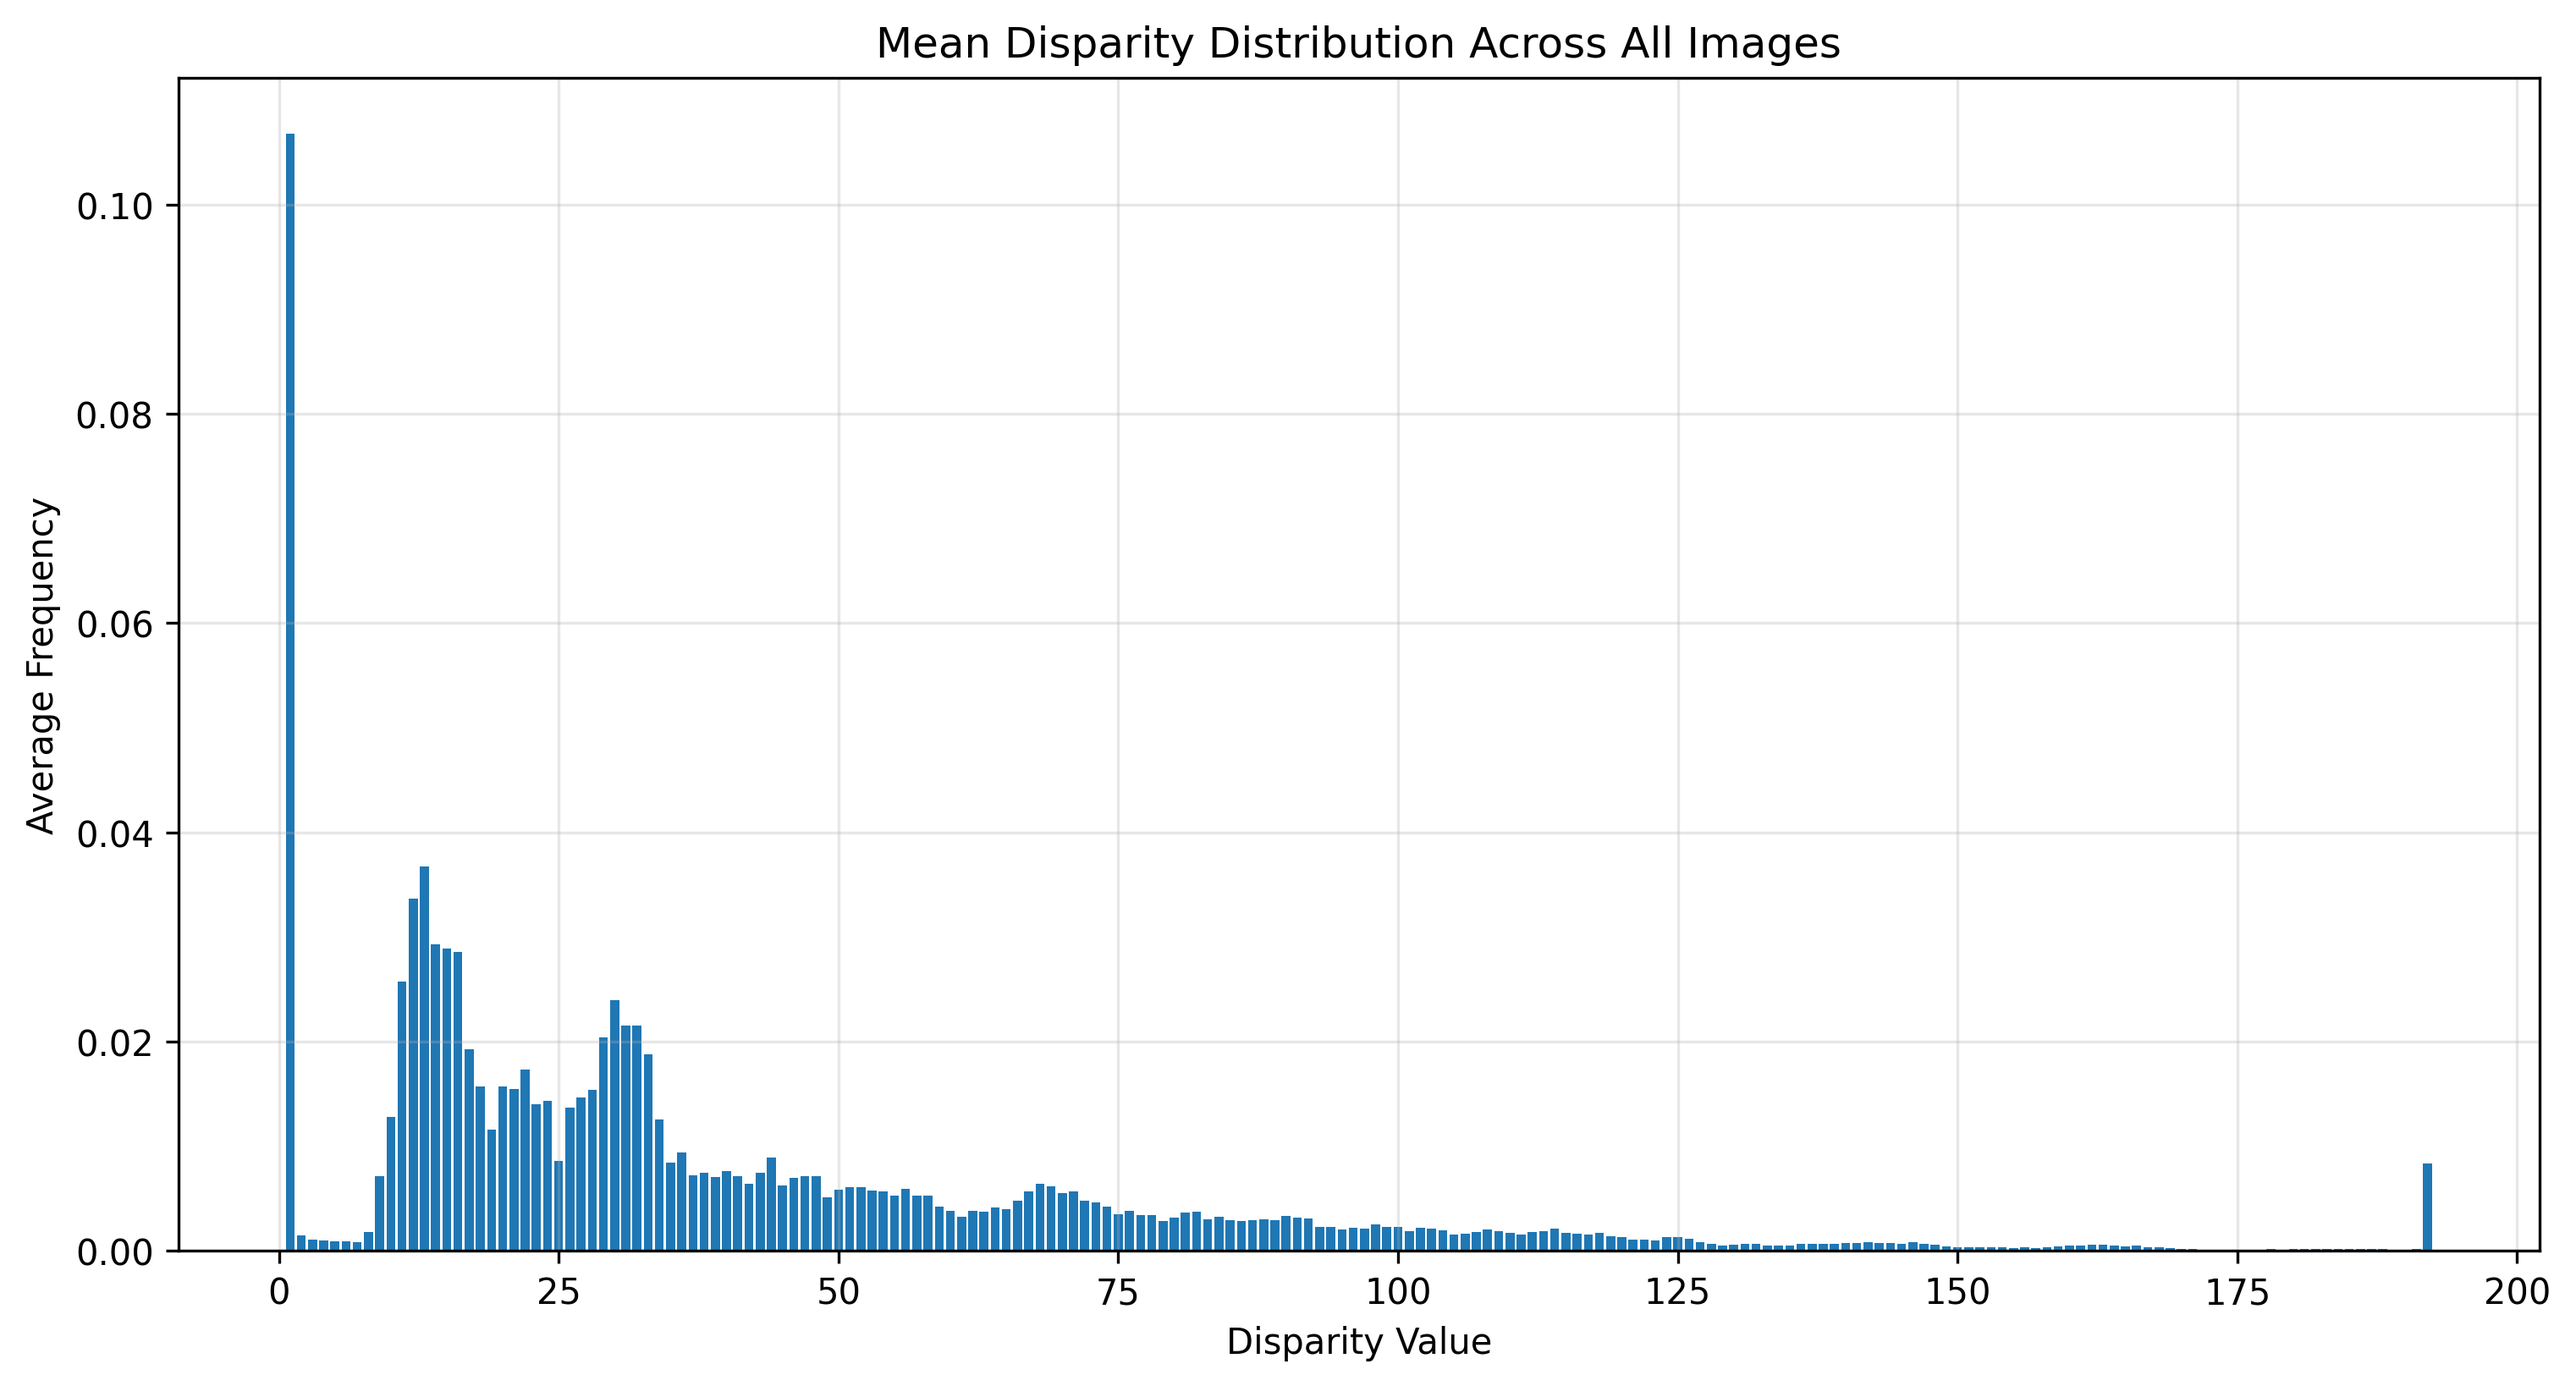
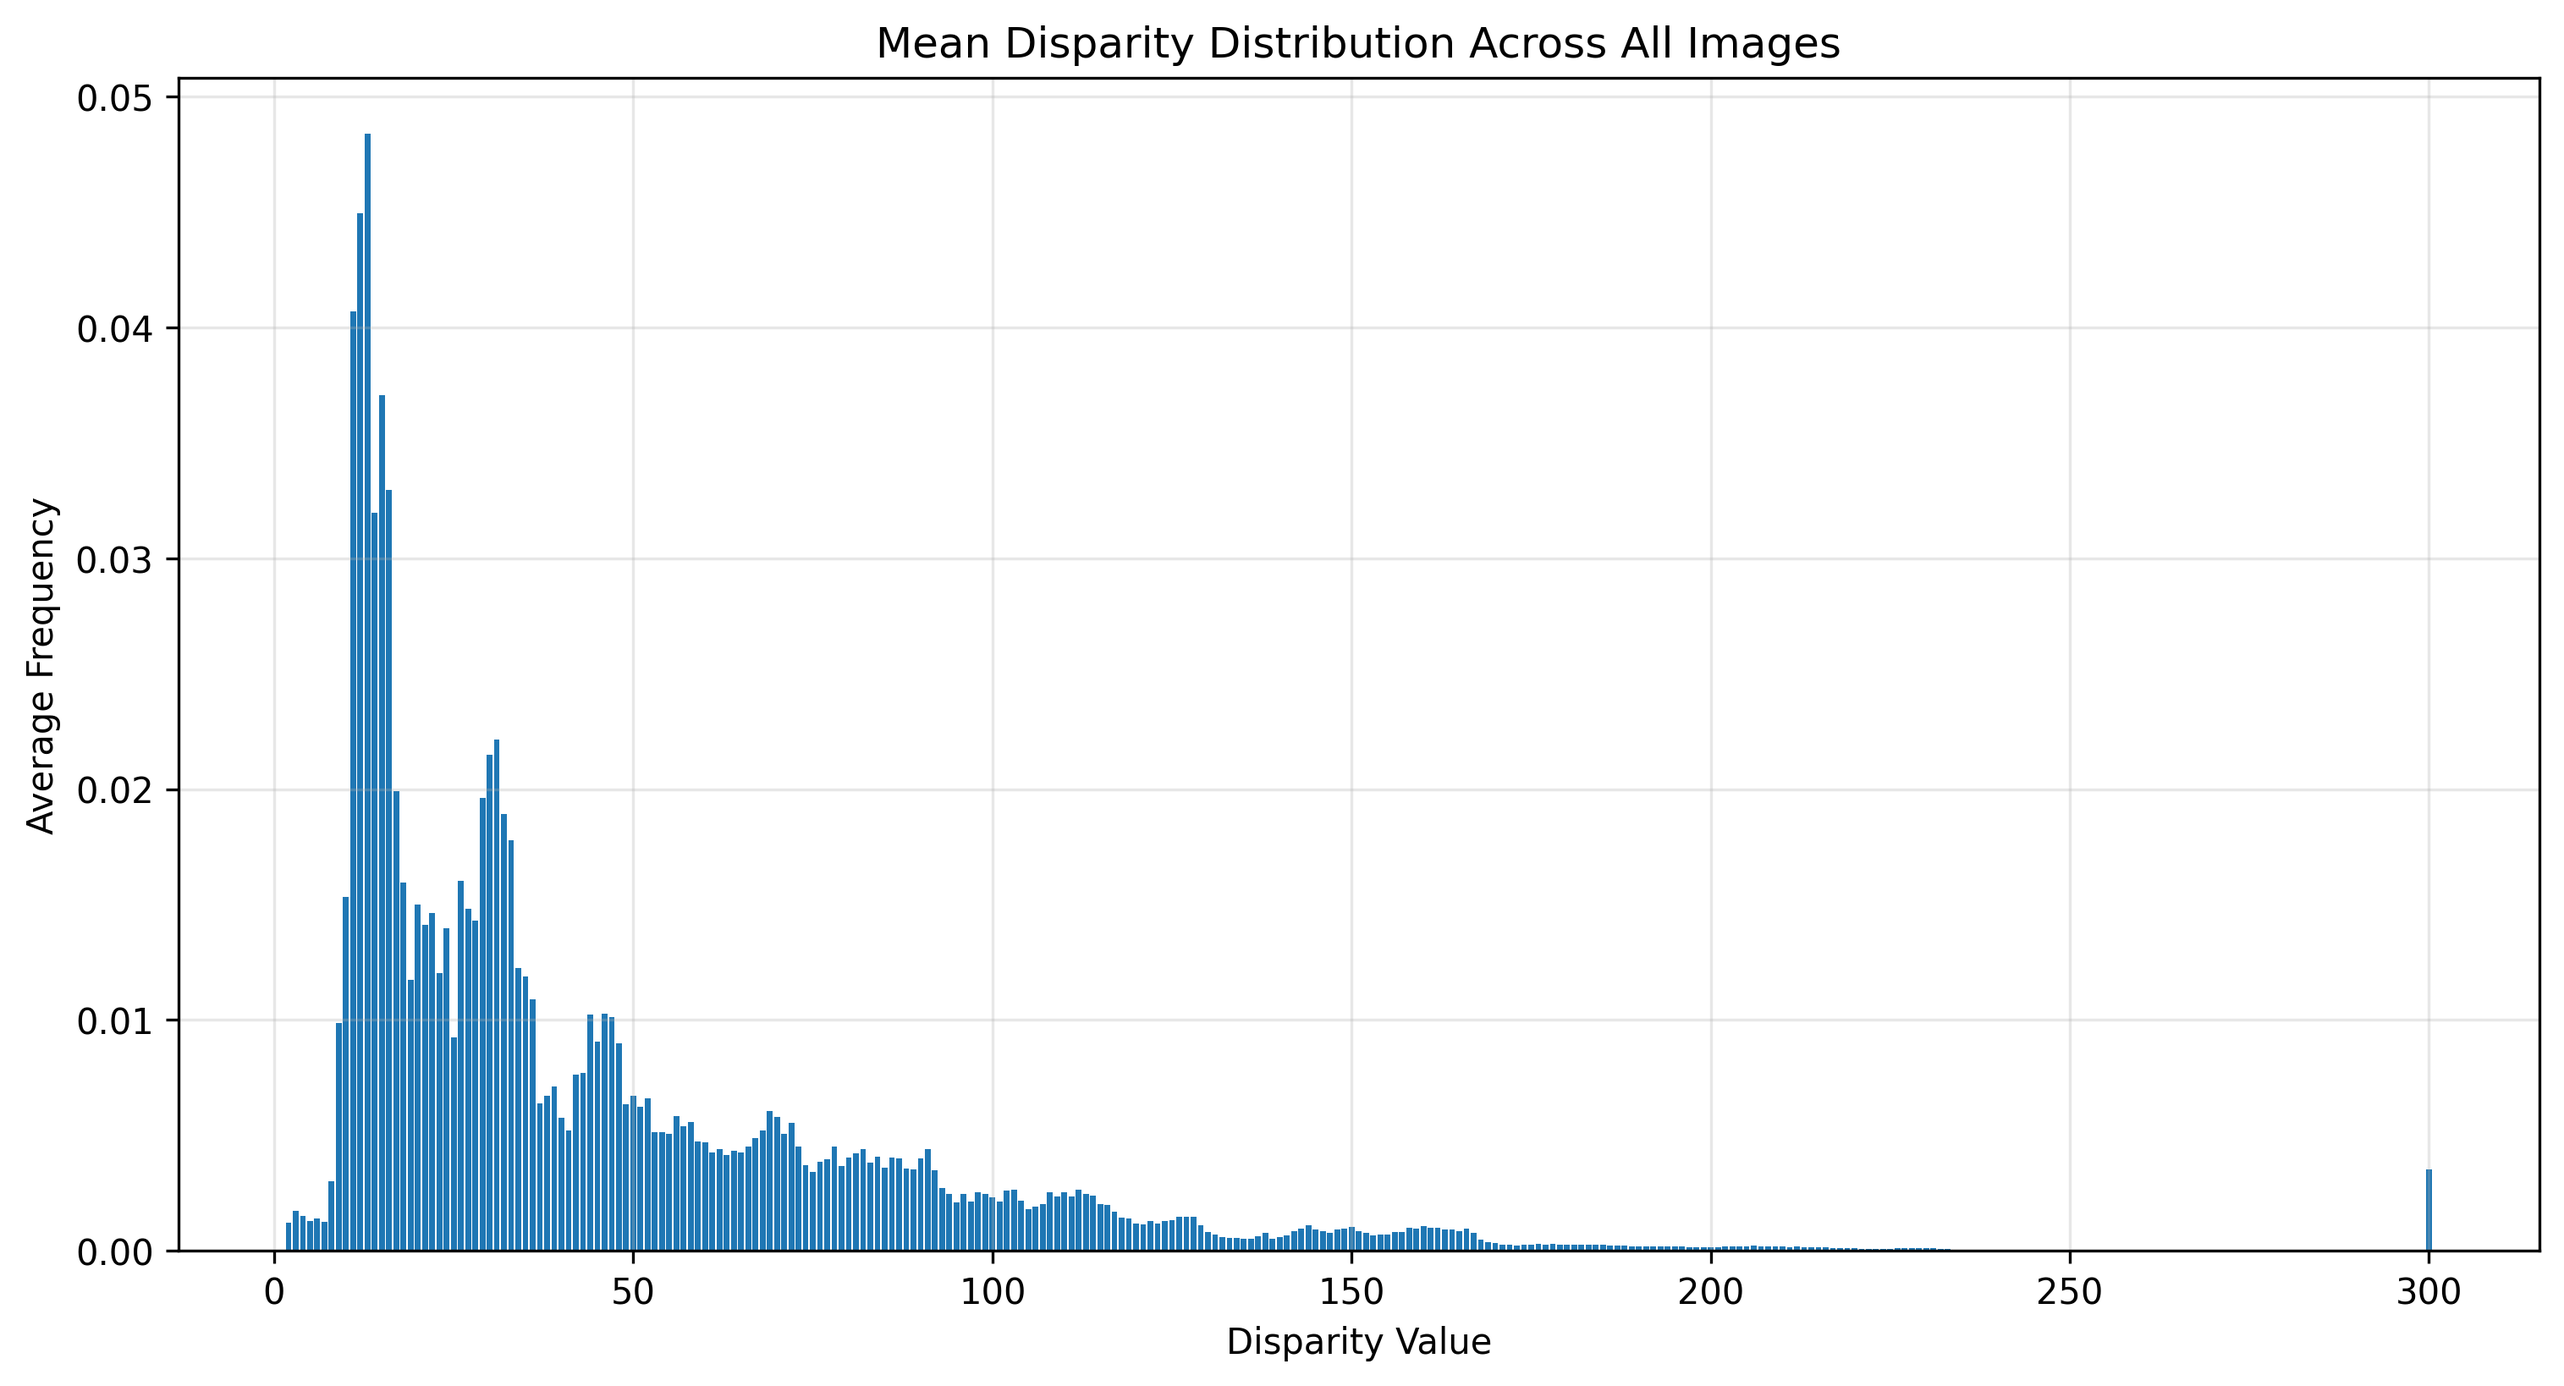
no pretrain

diff --git a/tools/write_log.py b/tools/write_log.py
@@ -260,51 +260,18 @@ class Logger:
     """ 
 
     def save_error_map(self,
-                        data_batch,
-                        abs_thresh: float = 1.1,
-                        rel_thresh: float = 0.05,
-                        dilation: int = 1):
+                   data_batch,
+                   abs_thresh: float = 1.1,
+                   rel_thresh: float = 0.05,
+                   dilation: int = 1,
+                   bins: int = 50):
         disparity_path = None
-        gt   = data_batch['tgt_disparity'].squeeze().detach().cpu()   # Tensor H×W
-        pred = data_batch['pseudo_disp'][0].squeeze().detach().cpu()   # Tensor H×W
+        gt   = data_batch['tgt_disparity'].squeeze().detach().cpu()
+        pred = data_batch['pseudo_disp'][0].squeeze().detach().cpu()
         
-        # # 디스패리티 마스크 로드 및 적용
-        # if disparity_path is not None:
-        #     # 파일명에서 _disparity.png 파일 경로 생성
-        #     filename = os.path.basename(data_batch['tgt_left_filename'].split('/')[-1])
-        #     base_name = os.path.splitext(filename)[0]  # 확장자 제거
-        #     disparity_filename = f"{base_name}_disparity.png"
-        #     full_disparity_path = os.path.join(disparity_path, disparity_filename)
-            
-        #     # 디스패리티 이미지 로드
-        #     if os.path.exists(full_disparity_path):
-        #         disparity_img = Image.open(full_disparity_path).convert('L')  # 그레이스케일로 로드
-        #         disparity_arr = np.array(disparity_img)
-                
-        #         # pred와 같은 크기로 리사이즈 (필요한 경우)
-        #         if disparity_arr.shape != pred.shape:
-        #             disparity_img_resized = Image.fromarray(disparity_arr).resize(
-        #                 (pred.shape[1], pred.shape[0]), Image.NEAREST
-        #             )
-        #             disparity_arr = np.array(disparity_img_resized)
-                
-        #         # 0보다 큰 부분만 마스크로 생성
-        #         mask = disparity_arr > 0
-        #         mask_tensor = torch.from_numpy(mask).to(pred.device)
-        #         pred = pred * mask_tensor  # 마스크를 pred에 적용
-        #         print(f"Applied disparity mask from: {full_disparity_path}")
-        #     else:
-        #         print(f"Warning: Disparity file not found: {full_disparity_path}")
-        #         # 기본 마스크 사용
-        #         mask = data_batch['tgt_refined_pred_disp_t'].squeeze().detach().cpu() > 0
-        #         pred = pred * mask
-        # else:
-        #     # 기본 마스크 사용
         mask = data_batch['tgt_refined_pred_disp_t'].squeeze().detach().cpu() > 0
-        # pred = pred * mask
         
         valid = (gt > 0) & (pred > 0)
-
         abs_err = (gt - pred).abs()
         rel_err = abs_err / gt.clamp(min=1e-6)
 
@@ -313,25 +280,98 @@ class Logger:
 
         bad_np = bad.numpy().astype(np.uint8)
         good_np = good.numpy().astype(np.uint8)
+        
         if dilation > 1:
             kernel = np.ones((dilation, dilation), np.uint8)
             bad_np = cv2.dilate(bad_np, kernel)
 
+        # 에러맵 이미지 생성
         H, W = bad_np.shape
         img = np.zeros((H, W, 3), dtype=np.uint8)
         img[:, :, :] = (255, 0, 0)
         img[~valid.numpy()] = (0, 0, 0)
         img[bad_np > 0] = (255, 0, 0)
         img[good_np > 0] = (0, 255, 0)
-        filename  = os.path.basename(data_batch['tgt_left_filename'].split('/')[-1])
+        
+        # 히스토그램 데이터 계산 (카운트 기반)
+        bin_centers, counts_total, counts_bad = self.compute_gt_and_bad_counts(
+            gt.numpy(), bad.numpy(), bins
+        )
+        
+        # 에러맵과 히스토그램을 함께 플롯
+        filename = os.path.basename(data_batch['tgt_left_filename'].split('/')[-1])
         save_path = os.path.join(self.error_dir, filename)
+        
+        self.plot_error_map_with_count_histogram(img, bin_centers, counts_total, counts_bad, save_path)
 
-        plt.figure(figsize=(12, 6), dpi=100)
+    def compute_gt_and_bad_counts(self, gt_np, bad_np, bins=10):
+        """GT disparity 값별 총 카운트와 에러 카운트를 계산"""
+        # 유효한 GT 값만 필터링 (gt > 0)
+        valid_mask = gt_np > 0
+        gt_valid = gt_np[valid_mask]
+        bad_valid = bad_np[valid_mask]
+
+        if len(gt_valid) == 0:
+            return np.array([]), np.array([]), np.array([])
+
+        # bins 경계 생성
+        bin_edges = np.linspace(0.0, 80.0, bins + 1)
+
+        # 각 bin별 총 픽셀 수
+        counts_total, _ = np.histogram(gt_valid, bins=bin_edges)
+
+        # 각 bin별 에러 픽셀 수
+        counts_bad, _ = np.histogram(gt_valid[bad_valid.astype(bool)], bins=bin_edges)
+
+        # bin 중앙값
+        bin_centers = (bin_edges[:-1] + bin_edges[1:]) / 2
+
+        return bin_centers, counts_total, counts_bad
+
+    def plot_error_map_with_count_histogram(self, img, bin_centers, counts_total, counts_bad, save_path):
+        """에러맵과 카운트 히스토그램을 함께 플롯"""
+        plt.figure(figsize=(16, 6), dpi=100)
+        
+        # 에러맵 서브플롯
+        plt.subplot(1, 2, 1)
         plt.imshow(img)
         plt.axis('off')
-        plt.tight_layout(pad=0)
-        plt.savefig(save_path, bbox_inches='tight', pad_inches=0)
+        plt.title('Error Map', fontsize=14)
+        
+        # 히스토그램 서브플롯 (그룹 막대 그래프)
+        plt.subplot(1, 2, 2)
+        if len(bin_centers) > 0:
+            # 막대 너비와 위치 설정
+            bar_width = (bin_centers[1] - bin_centers[0]) * 0.35 if len(bin_centers) > 1 else 0.35
+            x_pos = np.arange(len(bin_centers))
+            
+            # 그룹 막대 그래프 생성
+            plt.bar(x_pos - bar_width/2, counts_total, bar_width, 
+                label='Total GT Count', color='blue', alpha=0.7)
+            plt.bar(x_pos + bar_width/2, counts_bad, bar_width, 
+                label='Bad Count', color='red', alpha=0.7)
+            
+            # X축 라벨 설정
+            plt.xticks(x_pos, [f'{center:.1f}' for center in bin_centers], rotation=45)
+            plt.xlabel('GT Disparity Value', fontsize=12)
+            plt.ylabel('Count', fontsize=12)
+            plt.title('GT Count and Bad Count by Disparity Bin', fontsize=14)
+            plt.legend()
+            plt.grid(True, alpha=0.3)
+            
+            # 막대 위에 수치 표시
+            for i, (total, bad) in enumerate(zip(counts_total, counts_bad)):
+                if total > 0:
+                    plt.text(i - bar_width/2, total + max(counts_total) * 0.01, 
+                            str(total), ha='center', va='bottom', fontsize=9)
+                if bad > 0:
+                    plt.text(i + bar_width/2, bad + max(counts_total) * 0.01, 
+                            str(bad), ha='center', va='bottom', fontsize=9)
+        
+        plt.tight_layout()
+        plt.savefig(save_path, bbox_inches='tight', pad_inches=0.1)
         plt.close()
+
 
     def compute_metrics(self, data_batch):
         if 'src_disparity' in data_batch.keys():

diff --git a/read_prior.py b/read_prior.py
@@ -103,21 +103,21 @@ def print_distribution_results(mean_distribution, stats, top_k=20):
 
 def main():
     # Initialize dataset (you'll need to provide the actual paths)
-    dataset = KITTI2015Dataset(
-        datapath="/home/jaejun/dataset/kitti_2015",
-        list_filename="/home/jaejun/DomainGeneralization/filenames/target/kitti_2015_train.txt",
-        training=True,  # Set to True to get disparity ground truth
-        max_len=None,   # Process all samples
-        aug=False
-    )
-    
-    # dataset = FlyingThingDataset(
-    #     datapath="/home/jaejun/dataset/flyingthing",
-    #     list_filename="/home/jaejun/DomainGeneralization/filenames/source/flyingthing_train.txt",
+    # dataset = KITTI2015Dataset(
+    #     datapath="/home/jaejun/dataset/kitti_2015",
+    #     list_filename="/home/jaejun/DomainGeneralization/filenames/target/kitti_2015_train.txt",
     #     training=True,  # Set to True to get disparity ground truth
     #     max_len=None,   # Process all samples
     #     aug=False
     # )
+    
+    dataset = FlyingThingDataset(
+        datapath="/home/jaejun/dataset/flyingthing",
+        list_filename="/home/jaejun/DomainGeneralization/filenames/source/flyingthing_train.txt",
+        training=True,  # Set to True to get disparity ground truth
+        max_len=None,   # Process all samples
+        aug=False
+    )
     
     
     mean_distribution, stats = calculate_mean_disparity_distribution_per_image(dataset, max_disparity=300)

diff --git a/models/estimator/Fast_ACV_plus.py b/models/estimator/Fast_ACV_plus.py
@@ -109,7 +109,8 @@ class FeatUp(SubModule):
         y4 = self.conv4(y4)
         return [x4, x8, x16, x32], [y4, y8, y16, y32]
 
-
+## 여기서 channel attention을 해서 중요한 부분을 스스로 뽑을텐데 이 부분이 
+## 새로운 도메인을 만나면 뭐가 중요한지 학습을 하기 어려울 듯 함.
 class channelAtt(SubModule):
     def __init__(self, cv_chan, im_chan):
         super(channelAtt, self).__init__()
@@ -316,8 +317,11 @@ class Fast_ACVNet_plus(nn.Module):
         match_left = self.desc(self.conv(features_left_cat))
         match_right = self.desc(self.conv(features_right_cat))
 
+        ## shape [batch, 1, max_disparity//4, h, w]
         corr_volume_1 = build_norm_correlation_volume(match_left, match_right, self.maxdisp//4, mode=mode)
         corr_volume_2 = corr_volume_1
+
+        ## shape [batch, 8, max_disparity//4, h, w]
         corr_volume = self.corr_stem(corr_volume_1)
 
         cost_att = self.corr_feature_att_4(corr_volume, features_left_cat)

diff --git a/test.py b/test.py
@@ -59,14 +59,16 @@ def setup_model(cfg, ckpt_path, encoder_ckpt_path=None):
         
         
         decoder_prefixes = (
-            "hourglass_att", "hourglass", "spx_2", "spx_4", "spx",
-            "corr_stem", "corr_feature_att_4", "concat_feature",
-            "concat_stem", "concat_feature_att_4", 
-        )
-        
-        # decoder_prefixes = (
-        #     "spx_4", "spx_2", "spx"
-        # )
+            "corr_feature_att_4","concat_feature",
+            "corr_stem",
+            "concat_stem", "concat_feature_att_4"
+            "hourglass_att", "hourglass")
+            # , "spx_2", "spx_4", "spx",
+            #    , 
+            # )
+            # decoder_prefixes = (
+            #     "spx_4", "spx_2", "spx"
+            # )
         
         
         enc_keys = [
